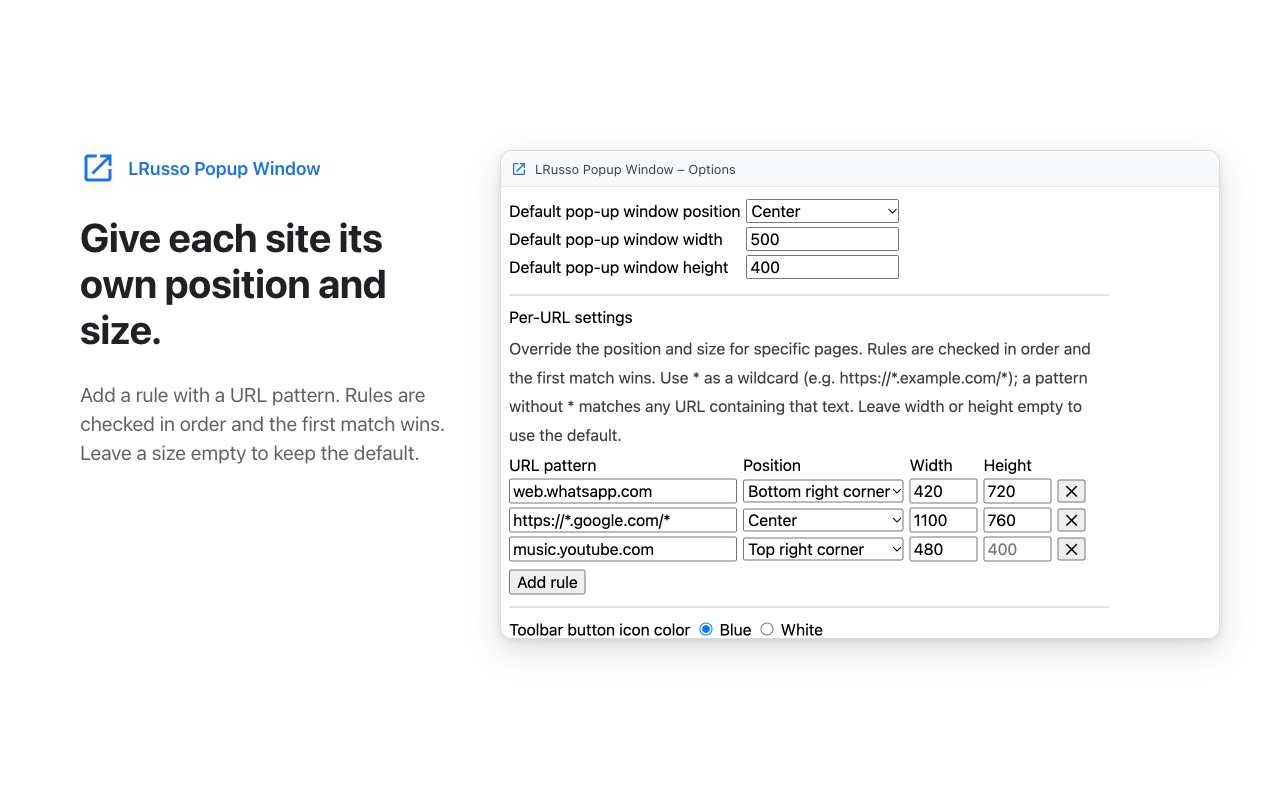
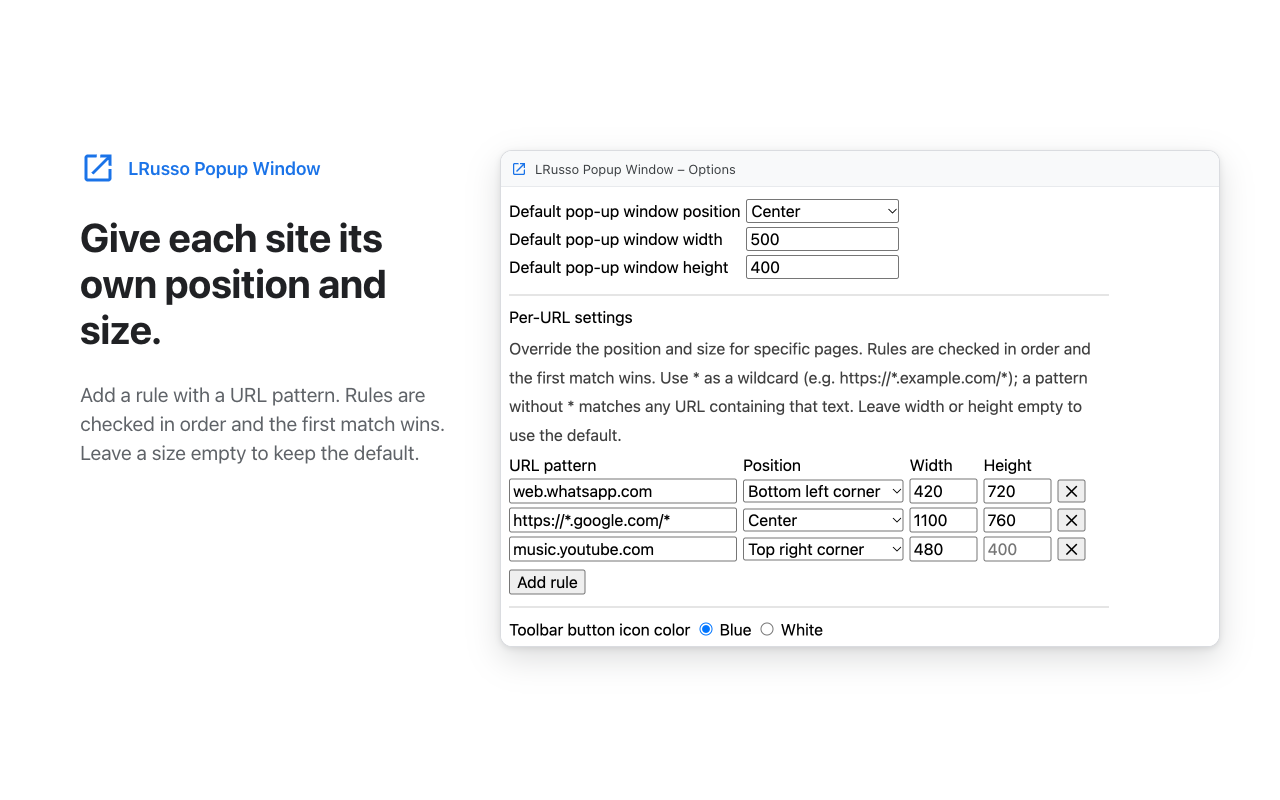
Add the options page HTML source for the store screenshot, include its bottom margin and show a bottom left rule

Changed region(s): [[0.4062, 0.7812, 0.9375, 0.8125], [0.625, 0.5938, 0.6875, 0.625]]

diff --git a/store/sources/options-page.html b/store/sources/options-page.html
@@ -1,0 +1,156 @@
+<!doctype html>
+<html>
+  <head>
+    <meta http-equiv="Content-Type" content="text/html; charset=utf-8">
+    <link rel="stylesheet" type="text/css" href="../../src/options.css">
+    <script type="text/javascript">
+      // stand-in for the chrome API: the English messages and some sample rules
+      const MESSAGES = {
+        extName: "LRusso Popup Window",
+        extDescription: "Move a tab to a standalone window without tabs, address or bookmarks bar. Set position and size globally or per URL.",
+        actionButtonTitle: "Move current tab to pop-up window",
+        openThisLink: "Open this link in pop-up window",
+        moveThisPage: "Pop-up/merge current page",
+        defaultPosition: "Default pop-up window position",
+        center: "Center",
+        topLeft: "Top left corner",
+        bottomLeft: "Bottom left corner",
+        topRight: "Top right corner",
+        bottomRight: "Bottom right corner",
+        customPosition: "Custom position",
+        windowPositionLeft: "Left",
+        windowPositionTop: "Top",
+        windowWidth: "Default pop-up window width",
+        windowHeight: "Default pop-up window height",
+        iconColor: "Toolbar button icon color",
+        iconColorBlue: "Blue",
+        iconColorWhite: "White",
+        execute: "Pop-up or merge the current page",
+        urlRules: "Per-URL settings",
+        urlRulesHint: "Override the position and size for specific pages. Rules are checked in order and the first match wins. Use * as a wildcard (e.g. https://*.example.com/*); a pattern without * matches any URL containing that text. Leave width or height empty to use the default.",
+        urlPattern: "URL pattern",
+        position: "Position",
+        width: "Width",
+        height: "Height",
+        useDefault: "Use default",
+        addUrlRule: "Add rule",
+        removeUrlRule: "Remove rule",
+        noUrlRules: "No per-URL rules yet. Default settings apply to every page.",
+      }
+      const PREFS = {
+        version: 7,
+        defaultPosition: 0,
+        windowPositionLeft: 0,
+        windowPositionTop: 0,
+        windowWidth: 500,
+        windowHeight: 400,
+        iconColor: 0,
+        urlRules: [
+          { pattern: "web.whatsapp.com", position: 2, left: 0, top: 0, width: 420, height: 720 },
+          { pattern: "https://*.google.com/*", position: 0, left: 0, top: 0, width: 1100, height: 760 },
+          { pattern: "music.youtube.com", position: 3, left: 0, top: 0, width: 480, height: null },
+        ],
+      }
+      window.chrome = {
+        i18n: { getMessage: (id) => MESSAGES[id] || "" },
+        storage: { local: { get: (keys, callback) => callback(PREFS), set: () => {} } },
+      }
+    </script>
+    <script type="text/javascript" src="../../src/defaults.js"></script>
+    <script type="text/javascript" src="../../src/options.js"></script>
+    <title></title>
+  </head>
+  <body>
+    <div>
+      <div style="display: inline-block">
+        <div class="defaults">
+          <label for="defaultPosition" data-l10n-id="defaultPosition"
+            >Default pop-up window position</label
+          >
+          <div class="field">
+            <select id="defaultPosition" type="option">
+              <option value="0" data-l10n-id="center">Center</option>
+              <option value="1" data-l10n-id="topLeft">Top left corner</option>
+              <option value="2" data-l10n-id="bottomLeft">Bottom left corner</option>
+              <option value="3" data-l10n-id="topRight">Top right corner</option>
+              <option value="4" data-l10n-id="bottomRight">
+                Bottom right corner
+              </option>
+              <option value="5" data-l10n-id="customPosition">
+                Custom position
+              </option>
+            </select>
+            <label class="windowPosition" data-l10n-id="windowPositionLeft"
+              >Left</label
+            >
+            <input
+              class="windowPosition"
+              type="number"
+              id="windowPositionLeft"
+              min="0"
+            >
+            <label class="windowPosition" data-l10n-id="windowPositionTop"
+              >Top</label
+            >
+            <input
+              class="windowPosition"
+              type="number"
+              id="windowPositionTop"
+              min="0"
+            >
+          </div>
+
+          <label for="windowWidth" data-l10n-id="windowWidth"
+            >Default pop-up window width</label
+          >
+          <input type="number" id="windowWidth" min="1">
+
+          <label for="windowHeight" data-l10n-id="windowHeight"
+            >Default pop-up window height</label
+          >
+          <input type="number" id="windowHeight" min="1">
+        </div>
+
+        <div class="itemDiv urlRulesSection">
+          <label data-l10n-id="urlRules">Per-URL settings</label>
+          <p class="hint" data-l10n-id="urlRulesHint">
+            Override the position and size for specific pages. Rules are checked in
+            order and the first match wins. Use * as a wildcard (e.g.
+            https://*.example.com/*); a pattern without * matches any URL containing
+            that text. Leave width or height empty to use the default.
+          </p>
+          <div id="urlRuleTable" class="urlRuleScroll">
+            <table class="urlRules">
+              <thead>
+                <tr>
+                  <th data-l10n-id="urlPattern">URL pattern</th>
+                  <th data-l10n-id="position">Position</th>
+                  <th data-l10n-id="width">Width</th>
+                  <th data-l10n-id="height">Height</th>
+                  <th></th>
+                </tr>
+              </thead>
+              <tbody id="urlRuleList"></tbody>
+            </table>
+          </div>
+          <p id="urlRulesEmpty" class="hint" data-l10n-id="noUrlRules">
+            No per-URL rules yet. Default settings apply to every page.
+          </p>
+          <button type="button" id="addUrlRule" data-l10n-id="addUrlRule">
+            Add rule
+          </button>
+        </div>
+
+        <div class="itemDiv iconColorSection">
+          <div id="iconColor" type="radioGroup">
+            <label data-l10n-id="iconColor">Toolbar button icon color</label>
+            <input type="radio" id="iconColorBlue" name="iconColor" value="0">
+            <label for="iconColorBlue" data-l10n-id="iconColorBlue">Blue</label>
+            <input type="radio" id="iconColorWhite" name="iconColor" value="1">
+            <label for="iconColorWhite" data-l10n-id="iconColorWhite">White</label>
+          </div>
+        </div>
+      </div>
+    </div>
+  </body>
+</html>
